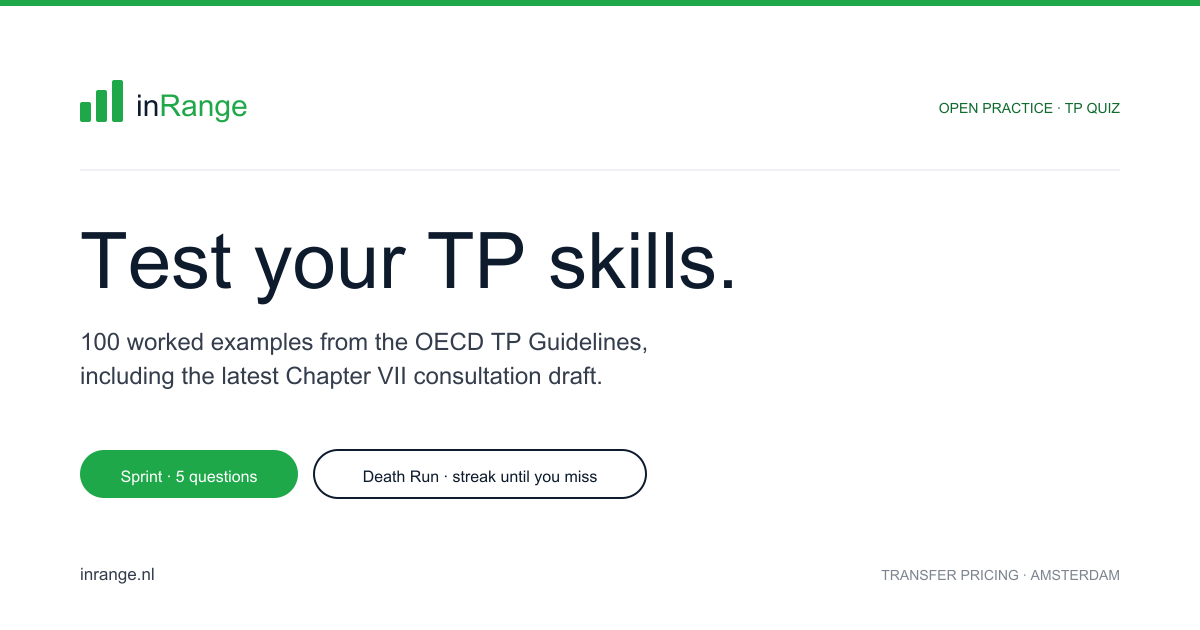
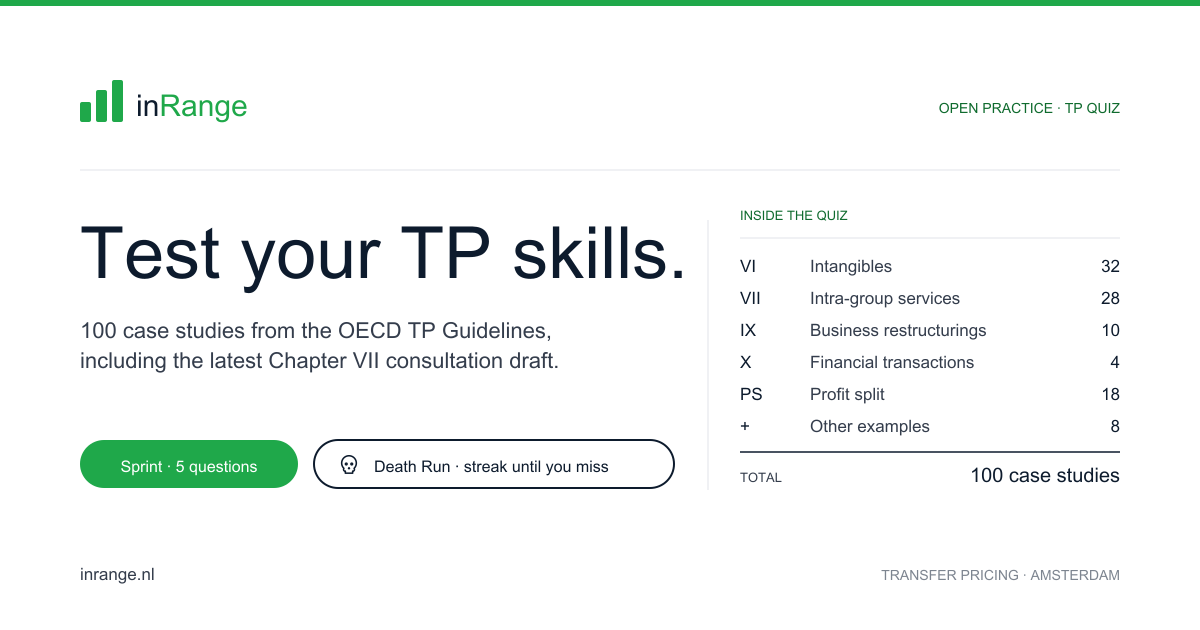
copy(quiz, chapters): rename 'worked examples' → 'case studies'; redesign Quiz OG
Terminology — across pages, meta tags, share strings, OG SVGs, and the
ProfitSplit cases.js source header. "Case studies" reads more
professional and matches how TP practitioners actually talk about
these. No behavioural change.

Quiz OG redesign:
- Added an "INSIDE THE QUIZ" table-of-contents column on the right:
  VI/VII/IX/X/PS/+ with their case counts, ending with a "TOTAL ·
  100 case studies" footer. Substantive editorial content, not
  decoration — communicates the breadth of the quiz at a glance.
- Skull SVG (Lucide line-art) added inside the Death Run pill.
  Renders cleanly via svglib where the 💀 glyph cannot.
- Subtitle updated to "100 case studies from the OECD TP Guidelines…"
- Thin vertical divider line separates the editorial title column
  from the chapter list column.

ProfitSplit / OtherExamples OGs: just the "worked examples" →
"case studies" text swap, re-rendered.

diff --git a/ProfitSplit/index.html b/ProfitSplit/index.html
@@ -3,20 +3,20 @@
 <head>
 <meta charset="UTF-8">
 <meta name="viewport" content="width=device-width, initial-scale=1">
-<title>Profit split method — 16 worked examples from Annex II to OECD Chapter II | inRange</title>
-<meta name="description" content="A walkthrough of the 16 worked examples on the profit split method from Annex II to Chapter II of the OECD Transfer Pricing Guidelines (2022).">
-<meta property="og:title" content="Profit split method — 16 worked examples from Annex II to OECD Chapter II">
-<meta property="og:description" content="16 worked examples on the application of the profit split method from Annex II to Chapter II of the OECD TP Guidelines (2022).">
+<title>Profit split method — 16 case studies from Annex II to OECD Chapter II | inRange</title>
+<meta name="description" content="A walkthrough of the 16 case studies on the profit split method from Annex II to Chapter II of the OECD Transfer Pricing Guidelines (2022).">
+<meta property="og:title" content="Profit split method — 16 case studies from Annex II to OECD Chapter II">
+<meta property="og:description" content="16 case studies on the application of the profit split method from Annex II to Chapter II of the OECD TP Guidelines (2022).">
 <meta property="og:type" content="website">
 <meta property="og:url" content="https://www.inrange.nl/ProfitSplit/">
 <meta property="og:image" content="https://www.inrange.nl/ProfitSplit/og-image.png">
 <meta property="og:image:width" content="2400">
 <meta property="og:image:height" content="1260">
-<meta property="og:image:alt" content="Profit split method — Interactive walkthrough of 16 worked examples. An inRange page.">
+<meta property="og:image:alt" content="Profit split method — Interactive walkthrough of 16 case studies. An inRange page.">
 <meta name="twitter:card" content="summary_large_image">
 <meta name="twitter:image" content="https://www.inrange.nl/ProfitSplit/og-image.png">
-<meta name="twitter:title" content="Profit split method — 16 worked examples from Annex II to OECD Chapter II">
-<meta name="twitter:description" content="16 worked examples on the application of the profit split method from Annex II to Chapter II of the OECD TP Guidelines (2022).">
+<meta name="twitter:title" content="Profit split method — 16 case studies from Annex II to OECD Chapter II">
+<meta name="twitter:description" content="16 case studies on the application of the profit split method from Annex II to Chapter II of the OECD TP Guidelines (2022).">
 <link rel="stylesheet" href="../colors_and_type.css">
 <link rel="preconnect" href="https://fonts.googleapis.com">
 <link rel="preconnect" href="https://fonts.gstatic.com" crossorigin>
@@ -697,7 +697,7 @@ a.toc__group-label:hover{color:var(--brand-green-700)}
     <section class="hero" id="intro">
       <span class="eyebrow">Annex II to OECD Chapter II · TPG 2022</span>
       <h1>Profit split.</h1>
-      <p class="lead">A walkthrough of the 16 worked examples in Annex II to Chapter II of the OECD Transfer Pricing Guidelines (2022 edition), illustrating when and how to apply the transactional profit split method.</p>
+      <p class="lead">A walkthrough of the 16 case studies in Annex II to Chapter II of the OECD Transfer Pricing Guidelines (2022 edition), illustrating when and how to apply the transactional profit split method.</p>
 
       <div class="disclaimer">
         <strong>Teaching summary.</strong> This walkthrough is a paraphrase of the OECD examples for learning purposes. For any binding interpretation, consult the OECD Transfer Pricing Guidelines themselves.
@@ -1429,8 +1429,8 @@ a.toc__group-label:hover{color:var(--brand-green-700)}
   function setupShare() {
     const toast = document.getElementById("toast");
     const SHARE_URL = "https://www.inrange.nl/ProfitSplit";
-    const SHARE_TITLE = "Profit split method — 16 worked examples from Annex II to OECD Chapter II";
-    const SHARE_TEXT = "An interactive walkthrough of the 16 worked examples on the transactional profit split method from Annex II to Chapter II of the OECD Transfer Pricing Guidelines (2022).";
+    const SHARE_TITLE = "Profit split method — 16 case studies from Annex II to OECD Chapter II";
+    const SHARE_TEXT = "An interactive walkthrough of the 16 case studies on the transactional profit split method from Annex II to Chapter II of the OECD Transfer Pricing Guidelines (2022).";
 
     function showToast(message) {
       if (!toast) return;

diff --git a/OtherExamples/index.html b/OtherExamples/index.html
@@ -4,9 +4,9 @@
 <meta charset="UTF-8">
 <meta name="viewport" content="width=device-width, initial-scale=1">
 <title>Other OECD examples — working capital adjustment + cost contribution arrangements | inRange</title>
-<meta name="description" content="A walkthrough of seven worked examples from the Annexes to OECD Chapters III (working capital adjustment) and VIII (cost contribution arrangements) of the OECD TP Guidelines (2022).">
+<meta name="description" content="A walkthrough of seven case studies from the Annexes to OECD Chapters III (working capital adjustment) and VIII (cost contribution arrangements) of the OECD TP Guidelines (2022).">
 <meta property="og:title" content="Other OECD examples — working capital adjustment + cost contribution arrangements">
-<meta property="og:description" content="Seven worked examples from the Annexes to Chapter III (working capital adjustment) and Chapter VIII (CCAs) of the OECD TP Guidelines (2022).">
+<meta property="og:description" content="Seven case studies from the Annexes to Chapter III (working capital adjustment) and Chapter VIII (CCAs) of the OECD TP Guidelines (2022).">
 <meta property="og:type" content="website">
 <meta property="og:url" content="https://www.inrange.nl/OtherExamples/">
 <meta property="og:image" content="https://www.inrange.nl/OtherExamples/og-image.png">
@@ -16,7 +16,7 @@
 <meta name="twitter:card" content="summary_large_image">
 <meta name="twitter:image" content="https://www.inrange.nl/OtherExamples/og-image.png">
 <meta name="twitter:title" content="Other OECD examples — working capital adjustment + cost contribution arrangements">
-<meta name="twitter:description" content="Seven worked examples from the Annexes to Chapter III (working capital adjustment) and Chapter VIII (CCAs) of the OECD TP Guidelines (2022).">
+<meta name="twitter:description" content="Seven case studies from the Annexes to Chapter III (working capital adjustment) and Chapter VIII (CCAs) of the OECD TP Guidelines (2022).">
 <link rel="stylesheet" href="../colors_and_type.css">
 <link rel="preconnect" href="https://fonts.googleapis.com">
 <link rel="preconnect" href="https://fonts.gstatic.com" crossorigin>
@@ -697,7 +697,7 @@ a.toc__group-label:hover{color:var(--brand-green-700)}
     <section class="hero" id="intro">
       <span class="eyebrow">Annexes to OECD Chapters III &amp; VIII · TPG 2022</span>
       <h1>Other examples.</h1>
-      <p class="lead">A walkthrough of seven worked examples from the Annexes to Chapter III (a working capital adjustment) and Chapter VIII (cost contribution arrangements) of the OECD Transfer Pricing Guidelines (2022 edition).</p>
+      <p class="lead">A walkthrough of seven case studies from the Annexes to Chapter III (a working capital adjustment) and Chapter VIII (cost contribution arrangements) of the OECD Transfer Pricing Guidelines (2022 edition).</p>
 
       <div class="disclaimer">
         <strong>Teaching summary.</strong> This walkthrough is a paraphrase of the OECD examples for learning purposes. For any binding interpretation, consult the OECD Transfer Pricing Guidelines themselves.
@@ -1430,7 +1430,7 @@ a.toc__group-label:hover{color:var(--brand-green-700)}
     const toast = document.getElementById("toast");
     const SHARE_URL = "https://www.inrange.nl/OtherExamples";
     const SHARE_TITLE = "Other OECD examples — working capital adjustment + cost contribution arrangements";
-    const SHARE_TEXT = "Seven worked examples from the Annexes to Chapter III (working capital adjustment) and Chapter VIII (cost contribution arrangements) of the OECD TP Guidelines (2022).";
+    const SHARE_TEXT = "Seven case studies from the Annexes to Chapter III (working capital adjustment) and Chapter VIII (cost contribution arrangements) of the OECD TP Guidelines (2022).";
 
     function showToast(message) {
       if (!toast) return;

diff --git a/Quiz/index.html b/Quiz/index.html
@@ -4,9 +4,9 @@
 <meta charset="UTF-8">
 <meta name="viewport" content="width=device-width, initial-scale=1">
 <title>OECD TP Quiz — Sprint & Death Run | inRange Open Practice</title>
-<meta name="description" content="Two playful quiz modes — a 5-question Sprint or a Death Run that ends when you miss one — drawn from the ~100 worked examples on the inRange Open Practice walkthrough of the OECD Transfer Pricing Guidelines.">
+<meta name="description" content="Two playful quiz modes — a 5-question Sprint or a Death Run that ends when you miss one — drawn from the ~100 case studies on the inRange Open Practice walkthrough of the OECD Transfer Pricing Guidelines.">
 <meta property="og:title" content="OECD TP Quiz — Sprint & Death Run">
-<meta property="og:description" content="Five questions, or a streak until you miss one. Drawn from the ~100 worked examples on the inRange Open Practice walkthrough of the OECD TP Guidelines.">
+<meta property="og:description" content="Five questions, or a streak until you miss one. Drawn from the ~100 case studies on the inRange Open Practice walkthrough of the OECD TP Guidelines.">
 <meta property="og:type" content="website">
 <meta property="og:url" content="https://www.inrange.nl/Quiz/">
 <meta property="og:image" content="https://www.inrange.nl/Quiz/og-image.png">
@@ -806,7 +806,7 @@ a.toc__group-label:hover{color:var(--brand-green-700)}
     <div class="toast" id="toast" role="status" aria-live="polite"></div>
 
     <footer class="page-footer">
-      <p>Questions are drawn from the worked examples on the inRange Open Practice walkthrough of the OECD Transfer Pricing Guidelines (2022 edition) and the OECD public consultation document with proposed revisions to Chapter VII (Intra-group services).</p>
+      <p>Questions are drawn from the case studies on the inRange Open Practice walkthrough of the OECD Transfer Pricing Guidelines (2022 edition) and the OECD public consultation document with proposed revisions to Chapter VII (Intra-group services).</p>
     </footer>
   </main>
 </div>

diff --git a/ProfitSplit/cases.js b/ProfitSplit/cases.js
@@ -6,7 +6,7 @@
 //   when-ps         → When the profit split is the most appropriate method
 //   ps-application  → Applying the profit split method
 //
-// Source: 2022 OECD TPG, Annex II to Chapter II — 16 worked examples on the
+// Source: 2022 OECD TPG, Annex II to Chapter II — 16 case studies on the
 // application of the transactional profit split method.
 
 globalThis.CASES = [
